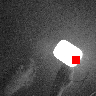
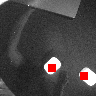
Autorun at high baud rate

diff --git a/ei_run_impulse.cpp b/ei_run_impulse.cpp
@@ -109,18 +109,9 @@ void run_nn(bool debug) {
     }
 
     while(1) {
-        ei_printf("Starting inferencing in 2 seconds...\n");
-
-        // instead of wait_ms, we'll wait on the signal, this allows threads to cancel us...
-        if (ei_sleep(2000) != EI_IMPULSE_OK) {
-            break;
-        }
-
         ei::signal_t signal;
         signal.total_length = EI_CLASSIFIER_INPUT_WIDTH * EI_CLASSIFIER_INPUT_HEIGHT;
         signal.get_data = &ei_camera_cutout_get_data;
-
-        ei_printf("Taking photo...\n");
 
         uint64_t capture_start = ei_read_timer_ms();
 
@@ -188,12 +179,12 @@ void run_nn(bool debug) {
                     cube.row = row;
                     cube.col = col;
                     bool found_overlapping_cube = false;
-                    for (auto other_cube : cubes) {
-                        if (abs((int)(cube.row - other_cube.row)) <= 1 && abs((int)(cube.col - other_cube.col)) <= 1) {
-                            // overlapping
-                            found_overlapping_cube = true;
-                        }
-                    }
+                    // for (auto other_cube : cubes) {
+                    //     if (abs((int)(cube.row - other_cube.row)) <= 1 && abs((int)(cube.col - other_cube.col)) <= 1) {
+                    //         // overlapping
+                    //         found_overlapping_cube = true;
+                    //     }
+                    // }
                     if (!found_overlapping_cube) {
                         cubes.push_back(cube);
                     }
@@ -222,6 +213,7 @@ void run_nn(bool debug) {
 
         uint64_t post_end = ei_read_timer_ms();
 
+        ei_printf("Begin output\n");
 
         if (debug) {
             ei_printf("Framebuffer: ");
@@ -339,6 +331,8 @@ void run_nn(bool debug) {
         for (auto cube : cubes) {
             ei_printf("    At x=%lu, y=%lu\n", cube.col * 8, cube.row * 8);
         }
+
+        ei_printf("End output\n");
 
         if (ei_user_invoke_stop()) {
             ei_printf("Inferencing stopped by user\r\n");

diff --git a/ingestion-sdk-platform/himax/ei_device_himax.cpp b/ingestion-sdk-platform/himax/ei_device_himax.cpp
@@ -72,8 +72,8 @@ const ei_device_data_output_baudrate_t ei_dev_max_data_output_baudrate = {
 };
 
 const ei_device_data_output_baudrate_t ei_dev_default_data_output_baudrate = {
-    "115200",
-    UART_BR_115200,
+    "921600",
+    UART_BR_921600,
 };
 
 /* Private function declarations ------------------------------------------- */

diff --git a/main.cc b/main.cc
@@ -83,7 +83,7 @@ int main(void)
     // ei_serial_set_baudrate(921600);
 
     // ei_command_line_handle(0);
-    run_nn_normal();
+    run_nn_debug();
 
     return 0;
 }
